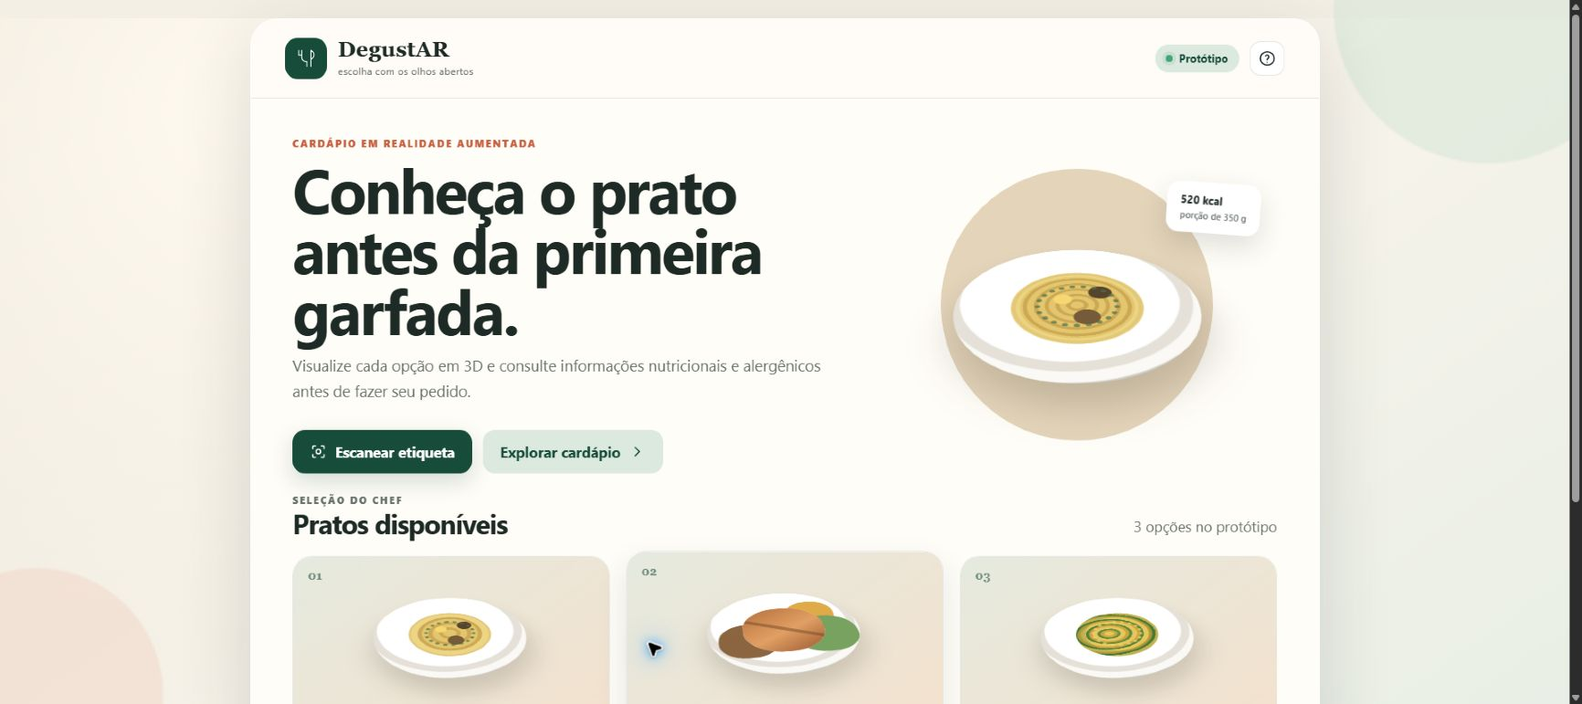
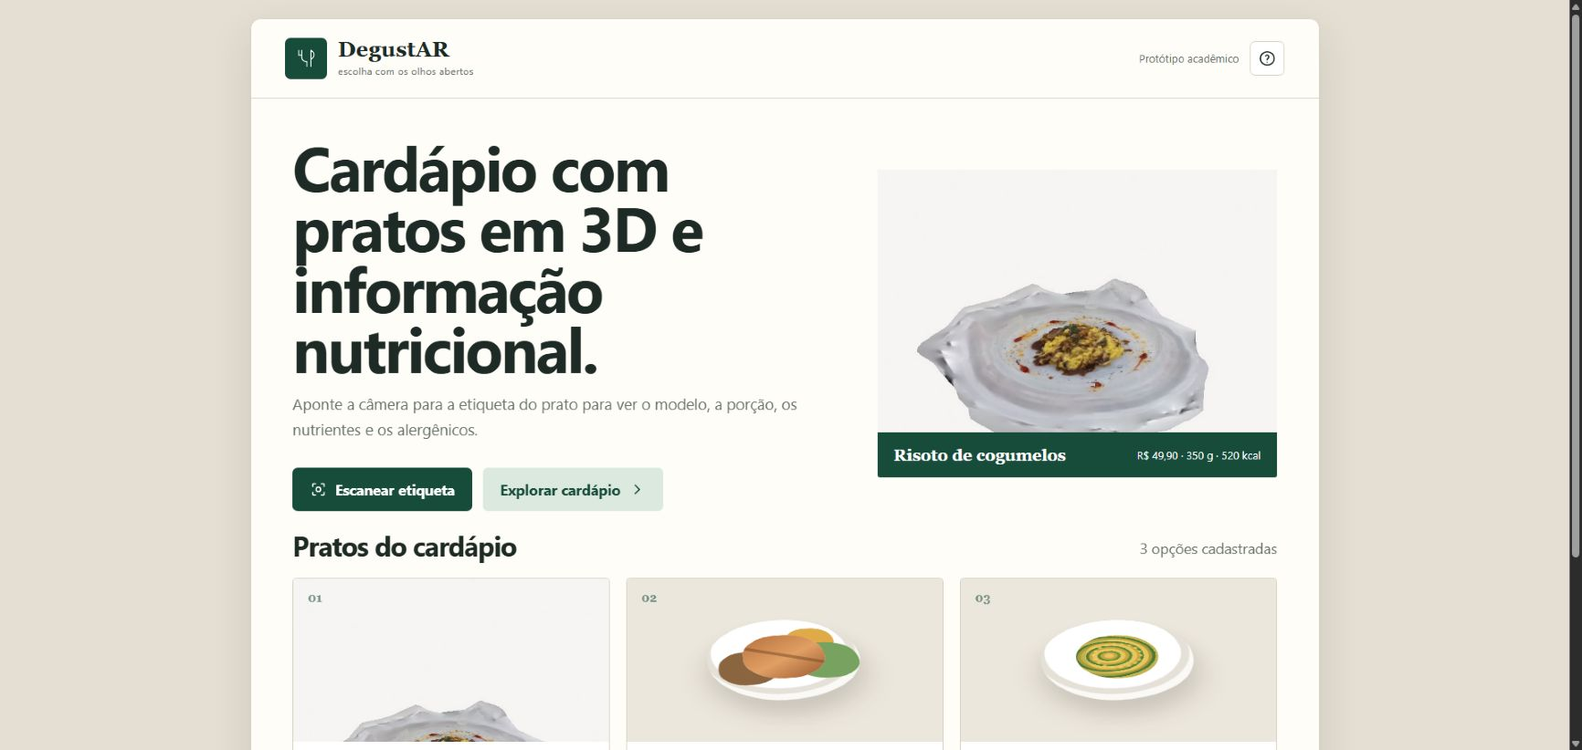
feat: humanize DegustAR mockup interface

diff --git a/mockup/styles.css b/mockup/styles.css
@@ -1,46 +1,40 @@
 :root {
   --ink: #1d2a25;
   --muted: #68736d;
-  --cream: #f4efe5;
-  --paper: rgba(255, 253, 248, 0.94);
+  --cream: #e5dfd3;
+  --paper: #fffdf8;
   --green: #174c3b;
   --green-2: #2d7058;
   --sage: #dce9df;
   --terracotta: #c85f3f;
   --gold: #d9a441;
-  --line: rgba(29, 42, 37, 0.11);
-  --shadow: 0 26px 80px rgba(34, 45, 38, 0.16);
+  --line: #d8d1c4;
+  --shadow: 0 18px 45px rgba(34, 45, 38, 0.12);
   font-family: "Segoe UI", Arial, sans-serif;
   color: var(--ink);
   background: var(--cream);
 }
 
 * { box-sizing: border-box; }
-body { margin: 0; min-height: 100vh; overflow-x: hidden; background: radial-gradient(circle at 15% 10%, #fffaf0 0, transparent 35%), linear-gradient(145deg, #ede7da, #f8f4eb 48%, #e5eee5); }
+body { margin: 0; min-height: 100vh; overflow-x: hidden; background: var(--cream); }
 button { font: inherit; }
 button, [role="button"] { -webkit-tap-highlight-color: transparent; }
 svg { fill: none; stroke: currentColor; stroke-width: 1.8; stroke-linecap: round; stroke-linejoin: round; }
 
-.ambient { position: fixed; border-radius: 50%; filter: blur(1px); pointer-events: none; opacity: .55; }
-.ambient-one { width: 340px; height: 340px; background: #d5e5d7; top: -160px; right: -80px; }
-.ambient-two { width: 280px; height: 280px; background: #f1d8c8; bottom: -130px; left: -100px; }
-
-.app-shell { position: relative; width: min(1180px, calc(100% - 40px)); min-height: calc(100vh - 40px); margin: 20px auto; background: var(--paper); border: 1px solid rgba(255,255,255,.75); border-radius: 30px; box-shadow: var(--shadow); overflow: hidden; backdrop-filter: blur(18px); }
-.topbar { height: 88px; display: flex; align-items: center; justify-content: space-between; padding: 0 38px; border-bottom: 1px solid var(--line); background: rgba(255,253,248,.76); }
+.app-shell { position: relative; width: min(1180px, calc(100% - 40px)); min-height: calc(100vh - 40px); margin: 20px auto; background: var(--paper); border: 1px solid var(--line); border-radius: 12px; box-shadow: var(--shadow); overflow: hidden; }
+.topbar { height: 88px; display: flex; align-items: center; justify-content: space-between; padding: 0 38px; border-bottom: 1px solid var(--line); background: var(--paper); }
 .brand { display: flex; align-items: center; gap: 12px; padding: 0; border: 0; background: transparent; color: var(--ink); cursor: pointer; text-align: left; }
-.brand-mark { display: grid; place-items: center; width: 46px; height: 46px; border-radius: 14px; background: var(--green); color: #fff; }
+.brand-mark { display: grid; place-items: center; width: 46px; height: 46px; border-radius: 6px; background: var(--green); color: #fff; }
 .brand-mark svg { width: 27px; height: 27px; }
 .brand strong { display: block; font-family: Georgia, "Times New Roman", serif; font-size: 24px; line-height: 1; }
 .brand small { display: block; color: var(--muted); margin-top: 4px; font-size: 11px; letter-spacing: .02em; }
 .top-actions { display: flex; align-items: center; gap: 12px; }
-.prototype-badge { display: inline-flex; align-items: center; gap: 7px; padding: 8px 12px; border-radius: 999px; color: var(--green); background: var(--sage); font-size: 12px; font-weight: 700; }
-.prototype-badge i { width: 7px; height: 7px; background: #44a575; border-radius: 50%; box-shadow: 0 0 0 4px rgba(68,165,117,.13); }
-.icon-button { display: grid; place-items: center; width: 38px; height: 38px; border: 1px solid var(--line); border-radius: 12px; color: var(--ink); background: #fff; cursor: pointer; }
+.prototype-label { color: var(--muted); font-size: 12px; }
+.icon-button { display: grid; place-items: center; width: 38px; height: 38px; border: 1px solid var(--line); border-radius: 6px; color: var(--ink); background: #fff; cursor: pointer; }
 .icon-button svg { width: 20px; }
 
-.view { min-height: calc(100vh - 220px); padding: 42px 46px 110px; animation: view-in .38s ease both; }
-@keyframes view-in { from { opacity: 0; transform: translateY(7px); } }
-.eyebrow { margin: 0 0 10px; color: var(--terracotta); font-size: 11px; font-weight: 800; letter-spacing: .14em; }
+.view { min-height: calc(100vh - 220px); padding: 42px 46px 110px; animation: view-in .24s ease both; }
+@keyframes view-in { from { opacity: 0; } }
 h1, h2, h3, p { margin-top: 0; }
 h1, h2 { font-family: "Segoe UI", Arial, sans-serif; font-weight: 750; letter-spacing: -.035em; }
 h1 { max-width: 670px; margin-bottom: 15px; font-size: clamp(42px, 5vw, 68px); line-height: .98; }
@@ -48,16 +42,18 @@ h2 { font-size: clamp(30px, 3vw, 44px); line-height: 1.05; }
 .lead { max-width: 620px; color: var(--muted); font-size: 17px; line-height: 1.65; }
 .hero { display: grid; grid-template-columns: 1.15fr .85fr; gap: 48px; align-items: center; min-height: 340px; }
 .hero-actions { display: flex; gap: 12px; margin-top: 28px; }
-.primary-button, .secondary-button { display: inline-flex; align-items: center; justify-content: center; gap: 9px; min-height: 48px; padding: 0 19px; border-radius: 14px; border: 0; font-weight: 700; cursor: pointer; transition: transform .18s ease, box-shadow .18s ease, background .18s ease; }
-.primary-button { color: #fff; background: var(--green); box-shadow: 0 9px 24px rgba(23,76,59,.18); }
+.primary-button, .secondary-button { display: inline-flex; align-items: center; justify-content: center; gap: 9px; min-height: 48px; padding: 0 19px; border-radius: 6px; border: 0; font-weight: 700; cursor: pointer; transition: background .18s ease; }
+.primary-button { color: #fff; background: var(--green); }
 .secondary-button { color: var(--green); background: var(--sage); }
-.primary-button:hover, .secondary-button:hover { transform: translateY(-2px); }
+.primary-button:hover { background: #0f3b2d; }
+.secondary-button:hover { background: #cbded0; }
 .primary-button svg, .secondary-button svg { width: 19px; height: 19px; }
 
-.hero-visual { position: relative; min-height: 300px; display: grid; place-items: center; }
-.hero-visual::before { content: ""; position: absolute; width: 300px; height: 300px; border-radius: 50%; background: #e4d4ba; }
-.floating-tag { position: absolute; right: 4%; top: 5%; z-index: 3; padding: 12px 15px; background: #fff; border-radius: 14px; box-shadow: 0 12px 30px rgba(35,44,38,.14); transform: rotate(4deg); font-size: 12px; font-weight: 700; }
-.floating-tag small { display: block; margin-top: 3px; color: var(--muted); font-weight: 500; }
+.hero-visual { position: relative; min-height: 340px; overflow: hidden; border-radius: 3px; background: #e7e0d4; }
+.hero-visual > img { position: absolute; inset: 0; width: 100%; height: 100%; object-fit: cover; }
+.hero-dish-caption { position: absolute; left: 0; right: 0; bottom: 0; display: flex; align-items: center; justify-content: space-between; gap: 16px; padding: 15px 18px; color: #fff; background: var(--green); }
+.hero-dish-caption strong { font-family: Georgia, "Times New Roman", serif; font-size: 18px; }
+.hero-dish-caption span { font-size: 12px; }
 
 .plate { position: relative; width: 270px; height: 270px; border-radius: 50%; background: radial-gradient(circle at 48% 42%, #fff 0 58%, #e5e1d8 59% 65%, #faf9f5 66% 73%, #cecac2 74% 75%, transparent 76%); filter: drop-shadow(0 34px 22px rgba(48,42,29,.18)); transform: perspective(650px) rotateX(58deg) rotateZ(-8deg); }
 .plate::before { content: ""; position: absolute; inset: 62px; border-radius: 50%; background: radial-gradient(circle at 40% 40%, #f6d771 0 8%, transparent 9%), radial-gradient(circle at 70% 34%, #56442d 0 9%, transparent 10%), radial-gradient(circle at 55% 67%, #765b3a 0 11%, transparent 12%), repeating-radial-gradient(ellipse at center, #e3c66d 0 7px, #cda956 8px 12px); box-shadow: inset 0 0 0 10px rgba(246,226,151,.55); }
@@ -71,9 +67,10 @@ h2 { font-size: clamp(30px, 3vw, 44px); line-height: 1.05; }
 .section-head h2 { margin-bottom: 0; font-size: 30px; }
 .section-head p { margin-bottom: 3px; color: var(--muted); }
 .dish-grid { display: grid; grid-template-columns: repeat(3, 1fr); gap: 18px; }
-.dish-card { position: relative; overflow: hidden; border: 1px solid var(--line); border-radius: 22px; background: #fff; cursor: pointer; transition: transform .2s ease, box-shadow .2s ease; }
-.dish-card:hover { transform: translateY(-5px); box-shadow: 0 15px 35px rgba(35,44,38,.11); }
-.dish-art { position: relative; height: 180px; display: grid; place-items: center; background: linear-gradient(145deg, #e6eadf, #f3e2ce); overflow: hidden; }
+.dish-card { position: relative; overflow: hidden; border: 1px solid var(--line); border-radius: 4px; background: #fff; cursor: pointer; transition: border-color .18s ease; }
+.dish-card:hover { border-color: var(--green); }
+.dish-art { position: relative; height: 180px; display: grid; place-items: center; background: #ece7dc; overflow: hidden; }
+.dish-art.has-photo img { width: 100%; height: 100%; object-fit: cover; }
 .dish-art .plate { width: 170px; height: 170px; transform: perspective(550px) rotateX(58deg) rotateZ(-8deg) translateY(-10px); filter: drop-shadow(0 24px 14px rgba(48,42,29,.17)); }
 .dish-art .plate::before { inset: 39px; }
 .dish-art .plate::after { inset: 58px 56px; border-width: 5px; }
@@ -85,26 +82,25 @@ h2 { font-size: clamp(30px, 3vw, 44px); line-height: 1.05; }
 .dish-price { font-size: 18px; font-weight: 800; }
 .dish-kcal { color: var(--muted); font-size: 12px; }
 
-.bottom-nav { position: absolute; z-index: 10; left: 0; right: 0; bottom: 0; height: 82px; display: flex; align-items: center; justify-content: center; gap: 75px; border-top: 1px solid var(--line); background: rgba(255,253,248,.92); backdrop-filter: blur(16px); }
+.bottom-nav { position: absolute; z-index: 10; left: 0; right: 0; bottom: 0; height: 82px; display: flex; align-items: center; justify-content: center; gap: 75px; border-top: 1px solid var(--line); background: var(--paper); }
 .nav-item { position: relative; min-width: 68px; display: flex; flex-direction: column; align-items: center; gap: 5px; padding: 9px; border: 0; background: transparent; color: #89908c; font-size: 11px; font-weight: 700; cursor: pointer; }
 .nav-item > svg { width: 21px; height: 21px; }
 .nav-item.active { color: var(--green); }
 .scan-nav { margin-top: -34px; }
-.scan-nav-icon { display: grid; place-items: center; width: 54px; height: 54px; border-radius: 18px; color: #fff; background: var(--green); box-shadow: 0 9px 22px rgba(23,76,59,.25); }
+.scan-nav-icon { display: grid; place-items: center; width: 54px; height: 54px; border-radius: 8px; color: #fff; background: var(--green); }
 .scan-nav-icon svg { width: 27px; height: 27px; }
 
 .screen-header { display: flex; align-items: center; gap: 16px; margin-bottom: 25px; }
-.back-button { display: grid; place-items: center; width: 42px; height: 42px; border: 1px solid var(--line); border-radius: 13px; background: #fff; color: var(--ink); cursor: pointer; }
+.back-button { display: grid; place-items: center; width: 42px; height: 42px; border: 1px solid var(--line); border-radius: 6px; background: #fff; color: var(--ink); cursor: pointer; }
 .back-button svg { width: 20px; }
 .screen-header h2 { margin: 0; font-size: 34px; }
 
 .scanner-layout { display: grid; grid-template-columns: 1fr 340px; gap: 28px; }
-.camera { position: relative; min-height: 470px; overflow: hidden; border-radius: 24px; background: radial-gradient(circle at 70% 30%, rgba(255,255,255,.16), transparent 24%), linear-gradient(135deg, #33453d, #17251f); color: #fff; }
-.camera::before { content: ""; position: absolute; inset: 0; opacity: .16; background-image: linear-gradient(rgba(255,255,255,.3) 1px, transparent 1px), linear-gradient(90deg, rgba(255,255,255,.3) 1px, transparent 1px); background-size: 32px 32px; }
+.camera { position: relative; min-height: 470px; overflow: hidden; border-radius: 6px; background: #1b3028; color: #fff; }
 .camera-copy { position: absolute; top: 28px; left: 0; right: 0; text-align: center; }
 .camera-copy strong { display: block; font-size: 17px; }
 .camera-copy span { color: rgba(255,255,255,.65); font-size: 13px; }
-.scan-frame { position: absolute; width: 245px; height: 245px; inset: 50% auto auto 50%; transform: translate(-50%, -45%); border: 1px solid rgba(255,255,255,.2); border-radius: 24px; }
+.scan-frame { position: absolute; width: 245px; height: 245px; inset: 50% auto auto 50%; transform: translate(-50%, -45%); border: 1px solid rgba(255,255,255,.2); border-radius: 8px; }
 .corner { position: absolute; width: 48px; height: 48px; border-color: #f2c766; border-style: solid; }
 .corner.tl { top: -2px; left: -2px; border-width: 4px 0 0 4px; border-radius: 16px 0 0; }
 .corner.tr { top: -2px; right: -2px; border-width: 4px 4px 0 0; border-radius: 0 16px 0 0; }
@@ -117,7 +113,7 @@ h2 { font-size: clamp(30px, 3vw, 44px); line-height: 1.05; }
 @keyframes scanning { 0%,100% { top: 18px; } 50% { top: calc(100% - 18px); } }
 .camera-action { position: absolute; bottom: 28px; left: 50%; transform: translateX(-50%); min-width: 180px; }
 .scan-sidebar { display: flex; flex-direction: column; gap: 16px; }
-.info-card { padding: 22px; border: 1px solid var(--line); border-radius: 20px; background: #fff; }
+.info-card { padding: 22px; border: 1px solid var(--line); border-radius: 4px; background: #fff; }
 .info-card h3 { margin-bottom: 10px; font-family: Georgia, "Times New Roman", serif; font-size: 21px; }
 .info-card p { margin-bottom: 0; color: var(--muted); font-size: 13px; line-height: 1.6; }
 .steps { list-style: none; padding: 0; margin: 2px 0 0; counter-reset: step; }
@@ -126,14 +122,14 @@ h2 { font-size: clamp(30px, 3vw, 44px); line-height: 1.05; }
 .steps li:not(:last-child)::after { content: ""; position: absolute; left: 13px; top: 27px; width: 1px; height: 18px; background: var(--line); }
 
 .dish-detail { display: grid; grid-template-columns: minmax(320px, .88fr) 1.12fr; gap: 42px; }
-.ar-stage { position: relative; min-height: 510px; display: grid; place-items: center; overflow: hidden; border-radius: 25px; background: linear-gradient(145deg, #dce4d9, #efe1ce); }
-.ar-stage::before { content: "VISUALIZAÇÃO 3D"; position: absolute; top: 22px; left: 22px; padding: 7px 10px; border-radius: 999px; color: var(--green); background: rgba(255,255,255,.67); font-size: 10px; font-weight: 800; letter-spacing: .1em; }
+.ar-stage { position: relative; min-height: 510px; display: grid; place-items: center; overflow: hidden; border-radius: 4px; background: #e7eadf; }
+.ar-stage::before { content: "Modelo 3D"; position: absolute; z-index: 4; top: 22px; left: 22px; color: var(--green); font-size: 12px; font-weight: 700; }
 .ar-stage .plate { width: 320px; height: 320px; animation: float 4s ease-in-out infinite; }
 @keyframes float { 0%,100% { transform: perspective(650px) rotateX(58deg) rotateZ(-8deg) translateY(0); } 50% { transform: perspective(650px) rotateX(58deg) rotateZ(-2deg) translateY(-10px); } }
-.real-model-stage { background: radial-gradient(circle at 50% 38%, #f8f5ec 0, #e5e8df 70%, #d5ddd1 100%); }
+.real-model-stage { background: #e7eadf; }
 #dish-model { position: absolute; inset: 0; width: 100%; height: 100%; touch-action: none; cursor: grab; }
 #dish-model:active { cursor: grabbing; }
-.model-loading { position: absolute; z-index: 3; inset: 0; display: flex; align-items: center; justify-content: center; gap: 10px; color: var(--green); background: rgba(242,244,236,.82); font-size: 12px; font-weight: 800; letter-spacing: .04em; transition: opacity .3s ease; }
+.model-loading { position: absolute; z-index: 3; inset: 0; display: flex; align-items: center; justify-content: center; gap: 10px; color: var(--green); background: #f2f4ec; font-size: 12px; font-weight: 700; transition: opacity .3s ease; }
 .model-loading span { width: 18px; height: 18px; border: 2px solid rgba(23,76,59,.2); border-top-color: var(--green); border-radius: 50%; animation: model-spin .8s linear infinite; }
 .model-loading.loaded { opacity: 0; pointer-events: none; }
 .model-loading.error { color: #8d3c28; }
@@ -146,18 +142,19 @@ h2 { font-size: clamp(30px, 3vw, 44px); line-height: 1.05; }
 .detail-copy h1 { margin-bottom: 14px; font-size: clamp(38px,4vw,56px); }
 .price-row { display: flex; align-items: center; gap: 12px; margin-bottom: 18px; }
 .price-row strong { font-size: 24px; }
-.serving { padding: 6px 10px; border-radius: 999px; color: var(--muted); background: #ecece6; font-size: 11px; font-weight: 700; }
+.serving { color: var(--muted); font-size: 12px; font-weight: 700; }
+.recognition-status { margin-bottom: 8px; color: var(--green-2); font-size: 12px; font-weight: 700; }
 .detail-description { color: var(--muted); line-height: 1.7; }
 .detail-tabs { display: flex; gap: 8px; margin: 24px 0 17px; }
-.detail-tab { padding: 9px 13px; border: 1px solid var(--line); border-radius: 10px; color: var(--muted); background: #fff; font-size: 12px; font-weight: 800; cursor: pointer; }
+.detail-tab { padding: 9px 13px; border: 1px solid var(--line); border-radius: 5px; color: var(--muted); background: #fff; font-size: 12px; font-weight: 800; cursor: pointer; }
 .detail-tab.active { color: #fff; border-color: var(--green); background: var(--green); }
 .nutrition-grid { display: grid; grid-template-columns: repeat(3, 1fr); gap: 10px; }
-.nutrient { padding: 14px; border-radius: 14px; background: #f2f3ed; }
+.nutrient { padding: 14px; border-radius: 4px; background: #f2f3ed; }
 .nutrient strong { display: block; font-size: 18px; }
 .nutrient span { color: var(--muted); font-size: 10px; }
 .allergen-list { display: flex; flex-wrap: wrap; gap: 8px; }
-.allergen { padding: 10px 13px; border-radius: 11px; color: #8d3c28; background: #fae5dc; font-size: 12px; font-weight: 800; }
-.safe-note { display: flex; gap: 10px; align-items: center; padding: 14px; border-radius: 13px; color: var(--green); background: var(--sage); font-size: 13px; font-weight: 700; }
+.allergen { padding: 10px 13px; border-radius: 4px; color: #8d3c28; background: #fae5dc; font-size: 12px; font-weight: 800; }
+.safe-note { display: flex; gap: 10px; align-items: center; padding: 14px; border-radius: 4px; color: var(--green); background: var(--sage); font-size: 13px; font-weight: 700; }
 .detail-actions { display: flex; gap: 10px; margin-top: 22px; }
 
 .survey-wrap { max-width: 790px; margin: 0 auto; }
@@ -167,27 +164,27 @@ h2 { font-size: clamp(30px, 3vw, 44px); line-height: 1.05; }
 .progress-label { min-width: 110px; text-align: right; color: var(--muted); font-size: 12px; }
 .progress-track { height: 6px; margin-top: 7px; overflow: hidden; border-radius: 99px; background: #e6e6df; }
 .progress-fill { width: 10%; height: 100%; border-radius: inherit; background: var(--terracotta); transition: width .3s ease; }
-.question-card { padding: 34px; border: 1px solid var(--line); border-radius: 24px; background: #fff; box-shadow: 0 12px 30px rgba(35,44,38,.07); }
+.question-card { padding: 34px; border: 1px solid var(--line); border-radius: 4px; background: #fff; }
 .question-number { color: var(--terracotta); font-size: 11px; font-weight: 800; letter-spacing: .12em; }
 .question-card h2 { margin: 14px 0 30px; font-size: 31px; }
 .scale { display: grid; grid-template-columns: repeat(5, 1fr); gap: 10px; }
-.scale button { min-height: 74px; border: 1px solid var(--line); border-radius: 14px; color: var(--muted); background: #fafaf7; cursor: pointer; transition: .18s ease; }
+.scale button { min-height: 74px; border: 1px solid var(--line); border-radius: 4px; color: var(--muted); background: #fafaf7; cursor: pointer; transition: background .18s ease, color .18s ease; }
 .scale button strong { display: block; color: var(--ink); font-size: 20px; }
 .scale button small { font-size: 9px; }
-.scale button:hover, .scale button.selected { color: #fff; border-color: var(--green); background: var(--green); transform: translateY(-2px); }
+.scale button:hover, .scale button.selected { color: #fff; border-color: var(--green); background: var(--green); }
 .scale button:hover strong, .scale button.selected strong { color: #fff; }
 .question-actions { display: flex; justify-content: space-between; margin-top: 24px; }
 .completion { text-align: center; padding: 50px 20px; }
-.completion-icon { display: grid; place-items: center; width: 74px; height: 74px; margin: 0 auto 22px; border-radius: 24px; color: #fff; background: var(--green); font-size: 35px; }
+.completion-icon { display: grid; place-items: center; width: 74px; height: 74px; margin: 0 auto 22px; border-radius: 8px; color: #fff; background: var(--green); font-size: 35px; }
 
-.help-dialog { max-width: 500px; padding: 34px; border: 0; border-radius: 24px; color: var(--ink); box-shadow: 0 25px 80px rgba(24,36,30,.28); }
-.help-dialog::backdrop { background: rgba(20,31,26,.52); backdrop-filter: blur(5px); }
+.help-dialog { max-width: 500px; padding: 34px; border: 0; border-radius: 6px; color: var(--ink); box-shadow: 0 25px 80px rgba(24,36,30,.28); }
+.help-dialog::backdrop { background: rgba(20,31,26,.52); }
 .help-dialog h2 { font-size: 31px; }
 .help-dialog ol { padding-left: 22px; color: var(--muted); line-height: 1.7; }
 .dialog-close { position: absolute; top: 15px; right: 15px; width: 34px; height: 34px; border: 0; border-radius: 10px; background: #f0f0ea; font-size: 23px; cursor: pointer; }
 .dialog-note { margin-bottom: 0; color: var(--muted); font-size: 12px; }
 kbd { padding: 2px 6px; border: 1px solid #d6d6ce; border-bottom-width: 2px; border-radius: 5px; background: #f5f5f0; }
-.toast { position: fixed; z-index: 30; left: 50%; bottom: 110px; transform: translateX(-50%) translateY(20px); padding: 12px 17px; border-radius: 12px; color: #fff; background: #1d2a25; opacity: 0; pointer-events: none; transition: .25s ease; font-size: 13px; font-weight: 700; }
+.toast { position: fixed; z-index: 30; left: 50%; bottom: 110px; transform: translateX(-50%) translateY(20px); padding: 12px 17px; border-radius: 5px; color: #fff; background: #1d2a25; opacity: 0; pointer-events: none; transition: .25s ease; font-size: 13px; font-weight: 700; }
 .toast.show { opacity: 1; transform: translateX(-50%) translateY(0); }
 
 @media (max-width: 860px) {
@@ -203,7 +200,7 @@ kbd { padding: 2px 6px; border: 1px solid #d6d6ce; border-bottom-width: 2px; bor
   .camera { min-height: 480px; }
   .ar-stage { min-height: 420px; }
   .bottom-nav { position: fixed; gap: 36px; }
-  .brand small, .prototype-badge { display: none; }
+  .brand small, .prototype-label { display: none; }
   .nutrition-grid { grid-template-columns: repeat(2, 1fr); }
   .scale { gap: 5px; }
   .scale button { min-height: 65px; padding: 4px; }

diff --git a/mockup/app.js b/mockup/app.js
@@ -72,27 +72,26 @@ function homeView() {
   return `
     <div class="hero">
       <div>
-        <p class="eyebrow">CARDÁPIO EM REALIDADE AUMENTADA</p>
-        <h1>Conheça o prato antes da primeira garfada.</h1>
-        <p class="lead">Visualize cada opção em 3D e consulte informações nutricionais e alergênicos antes de fazer seu pedido.</p>
+        <h1>Cardápio com pratos em 3D e informação nutricional.</h1>
+        <p class="lead">Aponte a câmera para a etiqueta do prato para ver o modelo, a porção, os nutrientes e os alergênicos.</p>
         <div class="hero-actions">
           <button class="primary-button" data-nav="scan">${scanIcon} Escanear etiqueta</button>
           <button class="secondary-button" id="explore-menu">Explorar cardápio ${arrow}</button>
         </div>
       </div>
       <div class="hero-visual">
-        ${plate()}
-        <div class="floating-tag">520 kcal<small>porção de 350 g</small></div>
+        <img src="assets/models/risotto/thumbnail.jpg" alt="Risoto servido em prato branco" />
+        <div class="hero-dish-caption"><strong>Risoto de cogumelos</strong><span>R$ 49,90 · 350 g · 520 kcal</span></div>
       </div>
     </div>
     <div id="menu-section" class="section-head">
-      <div><p class="eyebrow">SELEÇÃO DO CHEF</p><h2>Pratos disponíveis</h2></div>
-      <p>${dishes.length} opções no protótipo</p>
+      <div><h2>Pratos do cardápio</h2></div>
+      <p>${dishes.length} opções cadastradas</p>
     </div>
     <div class="dish-grid">
       ${dishes.map((dish, index) => `
         <article class="dish-card" data-dish="${dish.id}" tabindex="0" role="button" aria-label="Ver ${dish.name}">
-          <div class="dish-art"><span class="dish-number">0${index + 1}</span>${plate(dish.className)}</div>
+          <div class="dish-art ${dish.id === "risoto" ? "has-photo" : ""}"><span class="dish-number">0${index + 1}</span>${dish.id === "risoto" ? `<img src="assets/models/risotto/thumbnail.jpg" alt="${dish.name}" />` : plate(dish.className)}</div>
           <div class="dish-content">
             <h3>${dish.name}</h3><p>${dish.description}</p>
             <div class="dish-meta"><span class="dish-price">${money(dish.price)}</span><span class="dish-kcal">${dish.nutrition.Energia}</span></div>
@@ -103,7 +102,7 @@ function homeView() {
 
 function scanView() {
   return `
-    <div class="screen-header"><button class="back-button" data-nav="home">${back}</button><div><p class="eyebrow">RECONHECIMENTO DE IMAGEM</p><h2>Escanear etiqueta</h2></div></div>
+    <div class="screen-header"><button class="back-button" data-nav="home">${back}</button><div><h2>Escanear etiqueta</h2><p>A leitura abaixo é simulada nesta versão.</p></div></div>
     <div class="scanner-layout">
       <div class="camera" id="camera">
         <div class="camera-copy"><strong>Posicione a etiqueta no centro</strong><span>mantenha o celular estável</span></div>
@@ -112,8 +111,8 @@ function scanView() {
         <button class="primary-button camera-action" id="simulate-scan">${scanIcon}<span>Simular leitura</span></button>
       </div>
       <aside class="scan-sidebar">
-        <div class="info-card"><p class="eyebrow">COMO FUNCIONA</p><h3>Da etiqueta ao prato</h3><ol class="steps"><li>A câmera identifica o marcador.</li><li>O catálogo localiza o prato associado.</li><li>O modelo e os dados aparecem juntos.</li></ol></div>
-        <div class="info-card"><h3>Demonstração segura</h3><p>Esta tela simula o fluxo de reconhecimento para apresentar a experiência proposta sem depender da câmera ou do rastreamento real.</p></div>
+        <div class="info-card"><h3>Após a leitura</h3><ol class="steps"><li>A câmera identifica o marcador.</li><li>O catálogo localiza o prato associado.</li><li>O modelo e os dados aparecem juntos.</li></ol></div>
+        <div class="info-card simulation-note"><h3>Nesta versão</h3><p>O botão simula a câmera para demonstrar o fluxo enquanto o rastreamento real ainda está em desenvolvimento.</p></div>
       </aside>
     </div>`;
 }
@@ -133,12 +132,12 @@ function detailView() {
     ? `<canvas id="dish-model" aria-label="Modelo tridimensional real do risoto"></canvas><div class="model-loading" id="model-loading"><span></span>Carregando modelo 3D</div>`
     : plate(dish.className);
   return `
-    <div class="screen-header"><button class="back-button" data-nav="home">${back}</button><div><p class="eyebrow">PRATO RECONHECIDO</p><h2>Detalhes do prato</h2></div></div>
+    <div class="screen-header"><button class="back-button" data-nav="home">${back}</button><div><h2>Detalhes do prato</h2><p>Etiqueta associada ao catálogo.</p></div></div>
     <div class="dish-detail">
       <div class="ar-stage ${dish.id === "risoto" ? "real-model-stage" : ""}">${stageContent}<p class="stage-hint">${dish.id === "risoto" ? `Arraste para girar • use a roda para aproximar<br><a href="https://poly.cam/capture/d9fc177c-d6a8-453c-8fdd-23637a745e2a" target="_blank" rel="noreferrer">Modelo de BeguilingShadowstalker2310 via Polycam</a>` : "Modelo ilustrativo • visualização simulada em 3D"}</p></div>
       <div class="detail-copy">
-        <p class="eyebrow">ENCONTRADO COM SUCESSO</p><h1>${dish.name}</h1>
-        <div class="price-row"><strong>${money(dish.price)}</strong><span class="serving">porção de ${dish.serving} g</span></div>
+        <p class="recognition-status">Etiqueta reconhecida</p><h1>${dish.name}</h1>
+        <div class="price-row"><strong>${money(dish.price)}</strong><span class="serving">Porção de ${dish.serving} g</span></div>
         <p class="detail-description">${dish.description}</p>
         <div class="detail-tabs">
           <button class="detail-tab ${state.detailTab === "nutrition" ? "active" : ""}" data-tab="nutrition">Informação nutricional</button>
@@ -153,13 +152,13 @@ function detailView() {
 function surveyView() {
   const q = state.question;
   if (q >= susQuestions.length) {
-    return `<div class="survey-wrap"><div class="question-card completion"><div class="completion-icon">✓</div><p class="eyebrow">AVALIAÇÃO CONCLUÍDA</p><h2>Obrigado pela sua opinião.</h2><p class="lead" style="margin-inline:auto">As respostas do questionário SUS ajudam a medir a percepção de usabilidade do protótipo.</p><button class="primary-button" data-nav="home">Voltar ao início</button></div></div>`;
+    return `<div class="survey-wrap"><div class="question-card completion"><div class="completion-icon">✓</div><h2>Avaliação concluída</h2><p class="lead" style="margin-inline:auto">As respostas do questionário SUS ajudam a medir a percepção de usabilidade do protótipo.</p><button class="primary-button" data-nav="home">Voltar ao início</button></div></div>`;
   }
   const selected = state.answers[q];
   return `
     <div class="survey-wrap">
-      <div class="survey-intro"><div><p class="eyebrow">SYSTEM USABILITY SCALE</p><h1>Avalie sua experiência</h1><p>Responda pensando na interação que acabou de realizar.</p></div><div class="progress-label">${q + 1} de ${susQuestions.length}<div class="progress-track"><div class="progress-fill" style="width:${(q + 1) * 10}%"></div></div></div></div>
-      <div class="question-card"><span class="question-number">QUESTÃO ${String(q + 1).padStart(2, "0")}</span><h2>${susQuestions[q]}</h2>
+      <div class="survey-intro"><div><h1>Questionário SUS</h1><p>Avalie a usabilidade pensando na interação que acabou de realizar.</p></div><div class="progress-label">${q + 1} de ${susQuestions.length}<div class="progress-track"><div class="progress-fill" style="width:${(q + 1) * 10}%"></div></div></div></div>
+      <div class="question-card"><span class="question-number">Questão ${q + 1}</span><h2>${susQuestions[q]}</h2>
         <div class="scale">${[1,2,3,4,5].map(n => `<button class="${selected === n ? "selected" : ""}" data-answer="${n}"><strong>${n}</strong><small>${n === 1 ? "Discordo" : n === 5 ? "Concordo" : ""}</small></button>`).join("")}</div>
         <div class="question-actions"><button class="secondary-button" id="prev-question" ${q === 0 ? "disabled" : ""}>${back} Anterior</button><button class="primary-button" id="next-question" ${selected ? "" : "disabled"}>${q === 9 ? "Concluir" : "Próxima"} ${arrow}</button></div>
       </div>

diff --git a/mockup/index.html b/mockup/index.html
@@ -8,9 +8,6 @@
     <link rel="stylesheet" href="styles.css" />
   </head>
   <body>
-    <div class="ambient ambient-one"></div>
-    <div class="ambient ambient-two"></div>
-
     <main class="app-shell" aria-live="polite">
       <header class="topbar">
         <button class="brand" data-nav="home" aria-label="Voltar ao início">
@@ -20,7 +17,7 @@
           <span><strong>DegustAR</strong><small>escolha com os olhos abertos</small></span>
         </button>
         <div class="top-actions">
-          <span class="prototype-badge"><i></i> Protótipo</span>
+          <span class="prototype-label">Protótipo acadêmico</span>
           <button class="icon-button" id="help-button" aria-label="Abrir ajuda">
             <svg viewBox="0 0 24 24"><circle cx="12" cy="12" r="9"/><path d="M9.8 9a2.3 2.3 0 0 1 4.4 1c0 2-2.2 2.1-2.2 3.7M12 17h.01"/></svg>
           </button>
@@ -47,8 +44,7 @@
 
     <dialog id="help-dialog" class="help-dialog">
       <button class="dialog-close" id="close-help" aria-label="Fechar">×</button>
-      <p class="eyebrow">GUIA DE GRAVAÇÃO</p>
-      <h2>Fluxo sugerido para o pitch</h2>
+      <h2>Gravação do pitch</h2>
       <ol>
         <li>Mostre o catálogo e selecione um prato.</li>
         <li>Volte e abra <strong>Escanear etiqueta</strong>.</li>
